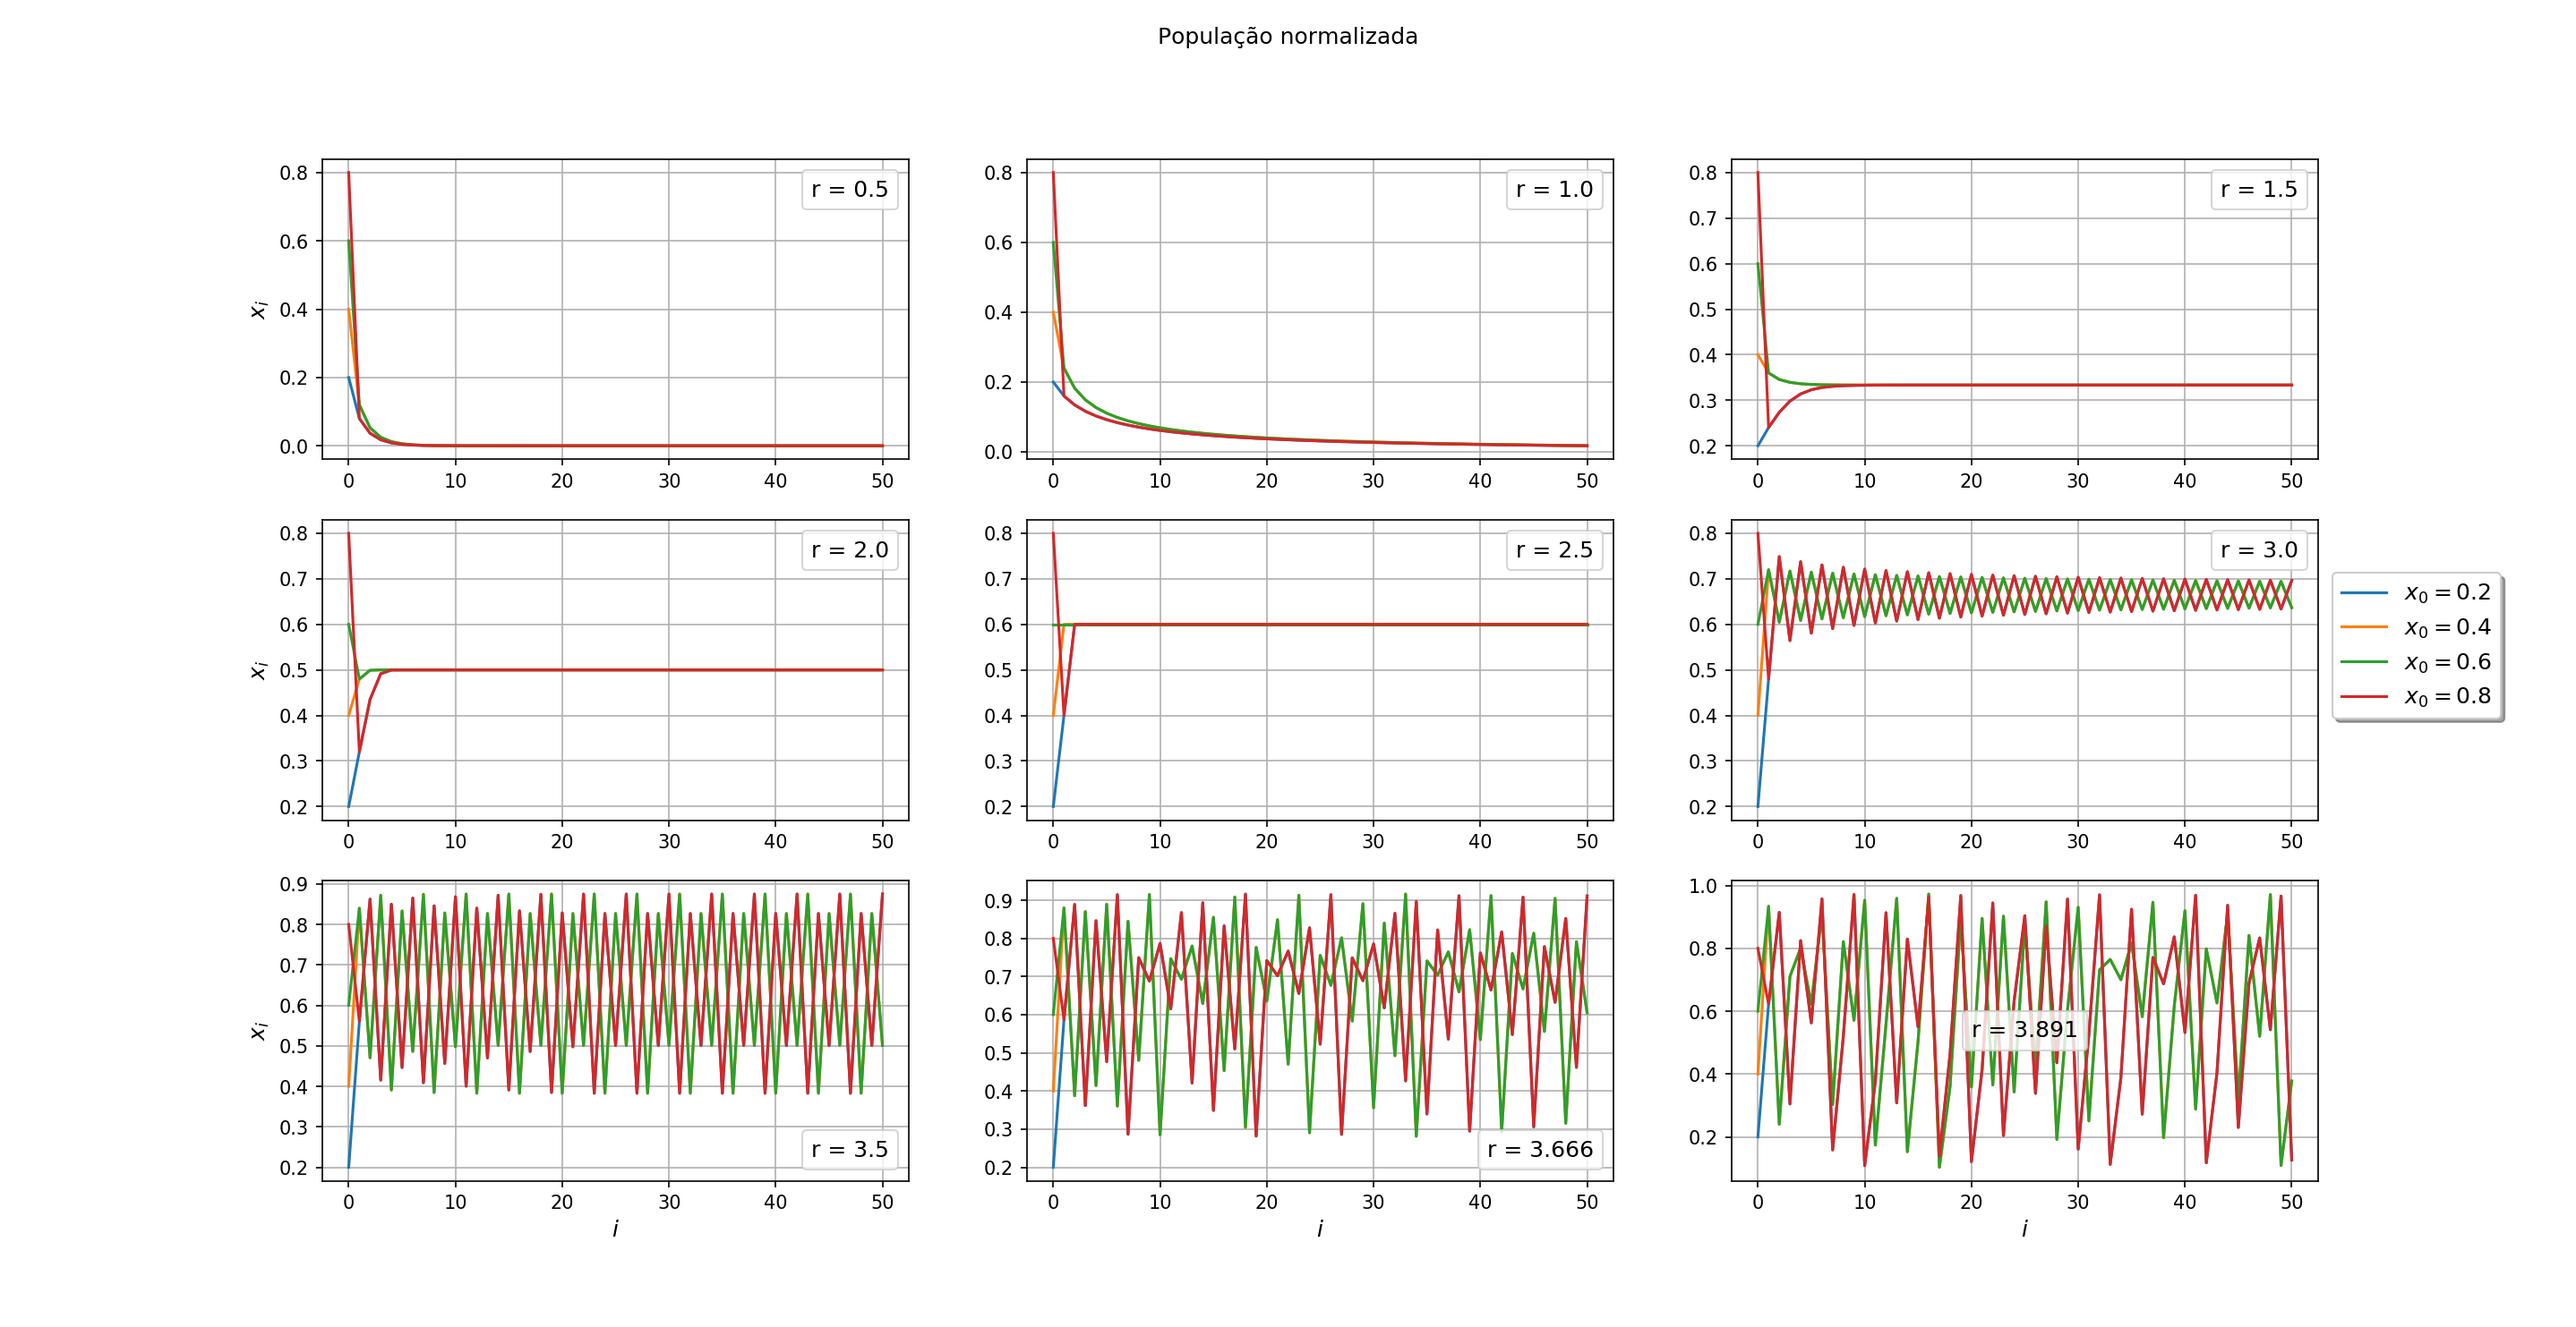
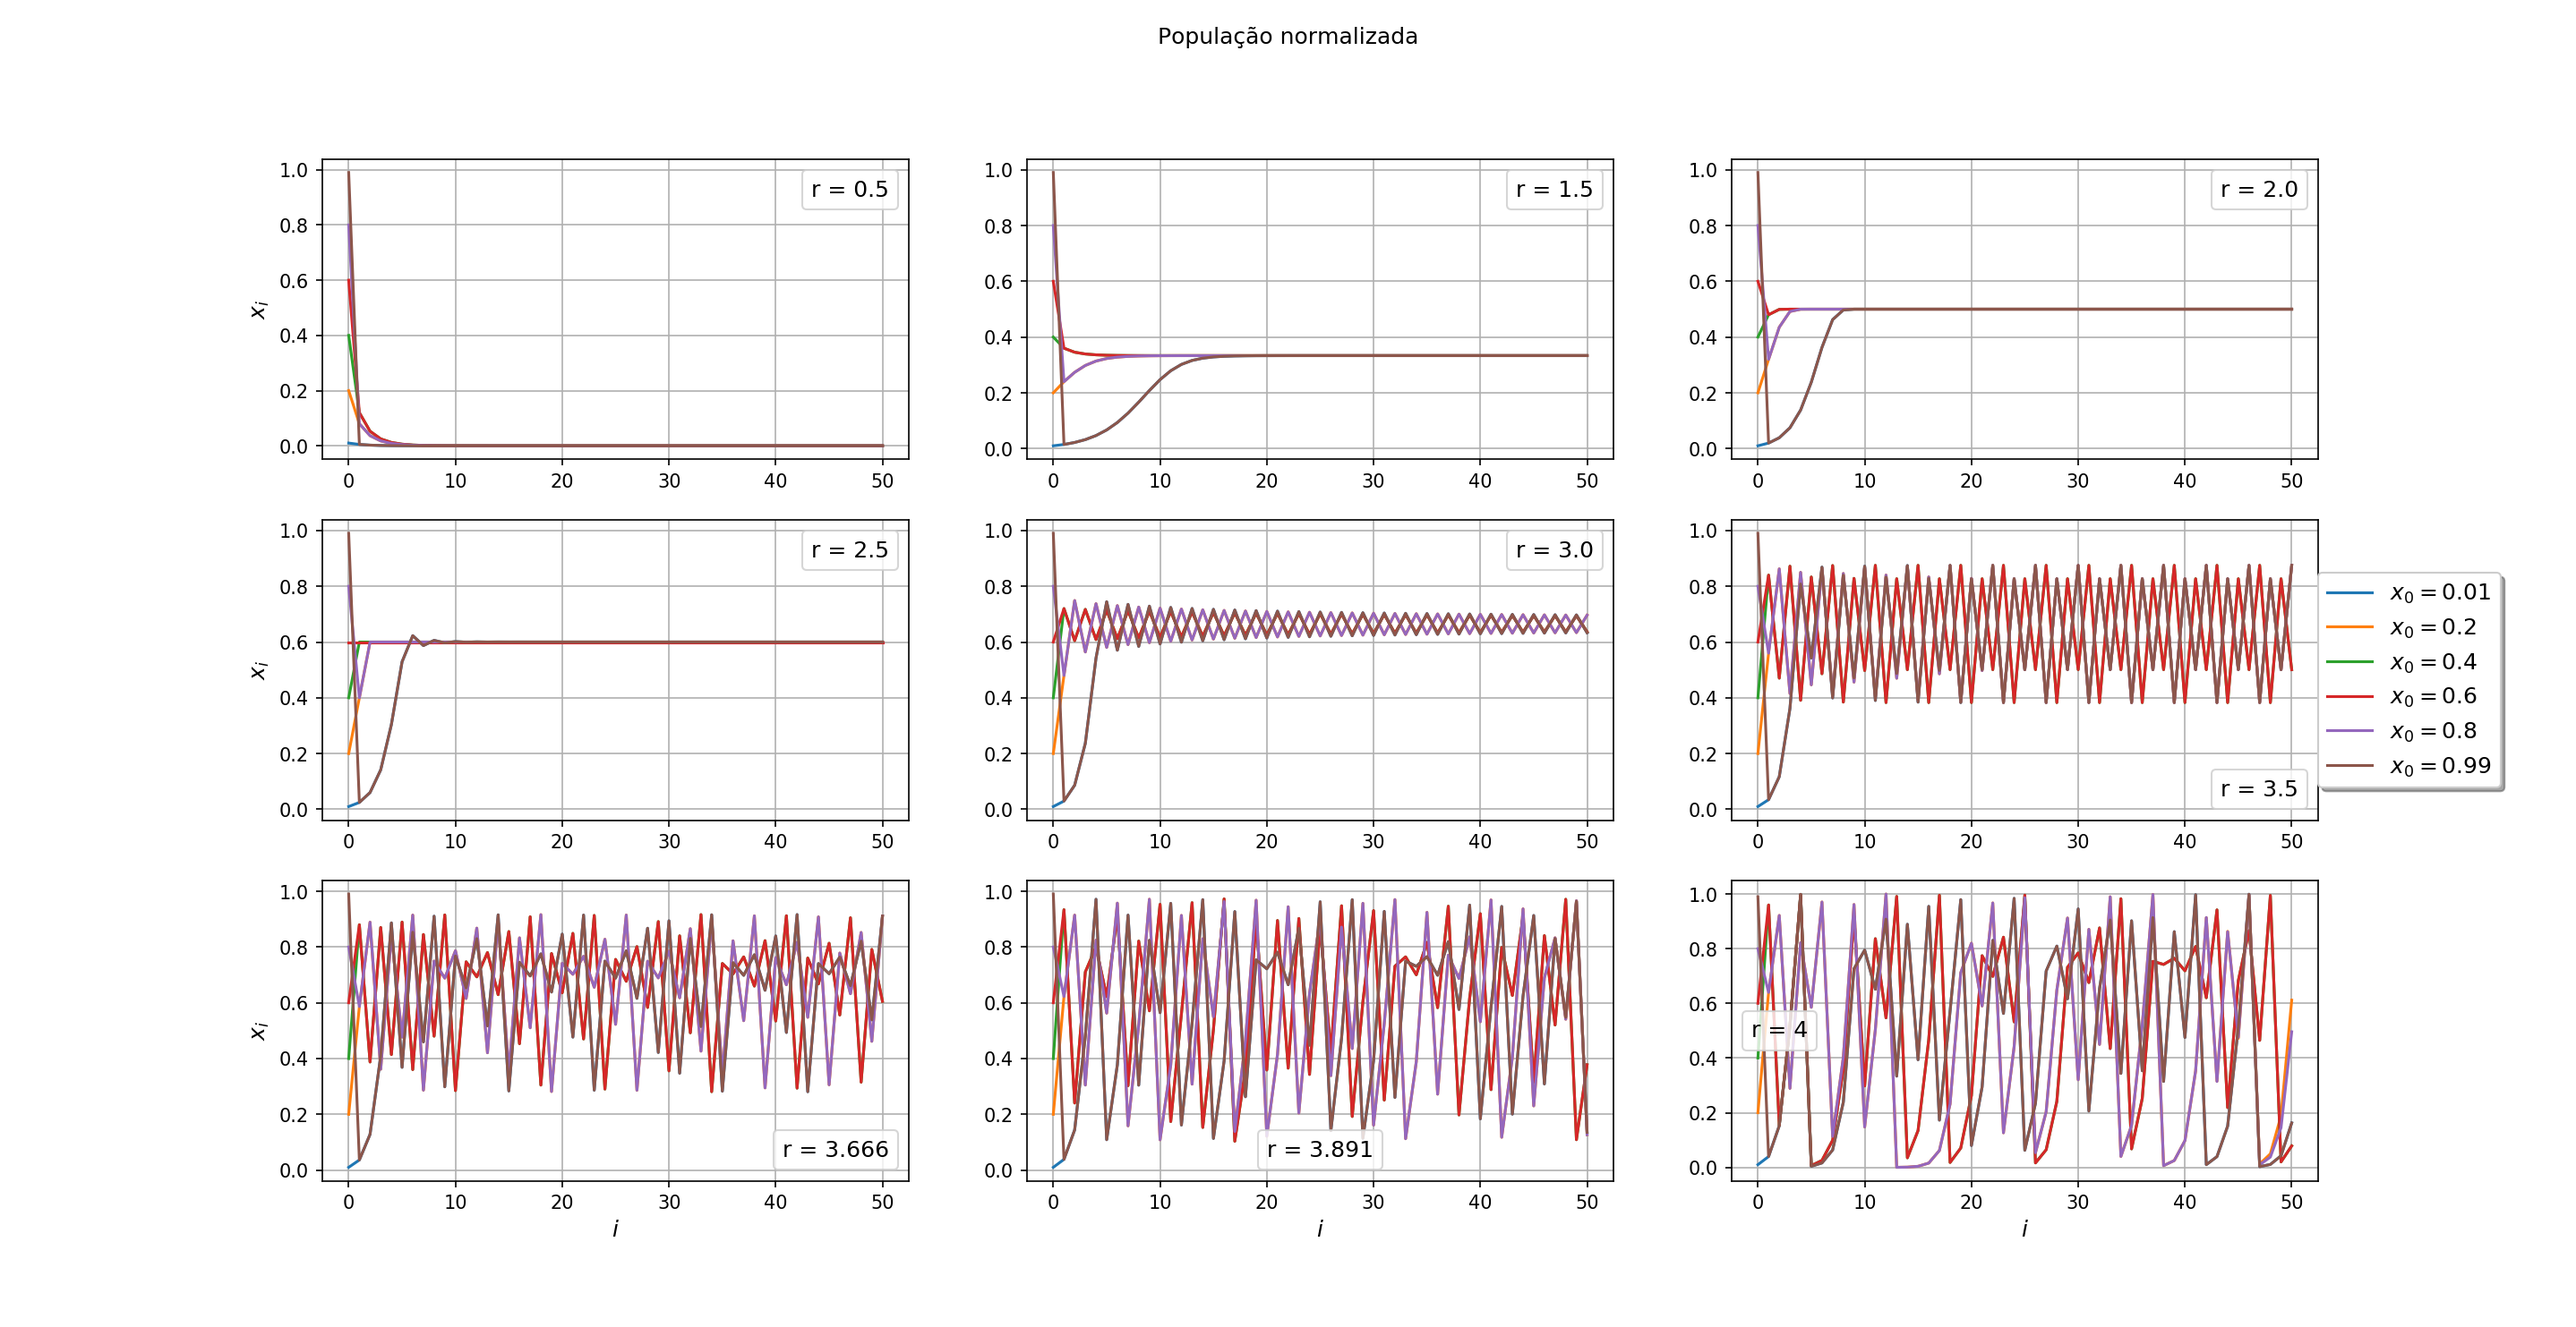
[P5 - Eric] item 2 adicionado

diff --git a/projeto5/2.py b/projeto5/2.py
@@ -1,0 +1,103 @@
+import numpy as np
+import matplotlib.pyplot as plt
+import matplotlib.lines  as lines
+import subprocess
+import glob, os
+
+r  = [0.5, 1.5, 2.0, 2.5, 3.0, 3.5, 3.666, 3.8910, 4]
+
+print("Plotting results for ex 2a")
+
+def G(x, r):
+    return r * x * (1 - x)
+
+fig = plt.figure()
+index = 1
+for r_ in r:
+    x  = np.linspace(0, 1, 10001)
+    g1 = G(x,  r_)
+    g2 = G(g1, r_)
+    g3 = G(g2, r_)
+    g4 = G(g3, r_)
+
+    ax = fig.add_subplot(3, 3, index)
+    ax.plot(x, x,  label = 'x', linewidth = 3)
+    ax.plot(x, g1, label = '$G^{(1)}(x)$')
+    ax.plot(x, g2, label = '$G^{(2)}(x)$')
+    ax.plot(x, g3, label = '$G^{(3)}(x)$')
+    ax.plot(x, g4, label = '$G^{(4)}(x)$')
+
+    linhazinha = lines.Line2D([0], [0])
+    ax.legend([linhazinha], ["r = {}".format(r_)],
+              handlelength = 0, handletextpad = 0,
+              fontsize = 'large', fancybox=True)
+    ax.grid()
+    index += 1
+
+handles, labels = ax.get_legend_handles_labels()
+fig.legend(handles, labels,
+           fontsize = 'large', fancybox = True,
+           shadow = True,
+           bbox_to_anchor=(.91, .45),
+           loc = 'upper right', borderaxespad=-7)
+plt.title("Raízes de $G^{(i)}(x)$")
+#plt.show()
+fig.set_size_inches(19.18, 9.89)
+plt.savefig("2a.png",
+            dpi = 150,
+            transparent = True)
+
+
+# compile code
+compiler = "gfortran"
+flags = ["-Wall", "-Wextra", "-Wconversion-extra", "-std=f2003", "-pedantic", "-fimplicit-none", "-fbacktrace", "-O3", "-march=native"]
+source = "2.f90"
+cmd = [compiler] + flags + [source]
+
+print("Compiling {} with {} {}".format(source, compiler, flags))
+bla = subprocess.run(cmd, check = True, stdout=subprocess.PIPE)
+
+if bla.returncode != 0:
+    print("Oh, shit")
+    exit(1)
+
+x0 = .666
+# run code
+print("Running code")
+with open("out_caos", mode = 'w') as outfile:
+    bla = subprocess.run(["./a.out"],
+                         input = str(x0),
+                         encoding ='ascii',
+                         check = True,
+                         stdout=outfile)
+
+print("Plotting results for ex 2b")
+
+fig = plt.figure()
+ax = fig.add_subplot(111)
+data = np.loadtxt("out_caos", unpack = True)
+x = data[1]
+y = data[0]
+ax.scatter(x, y, s = 0.5, c = y, cmap = 'inferno')
+
+plt.title("CAOS")
+plt.xlabel("$r$", fontsize = 'large')
+plt.ylabel("População", fontsize = 'large')
+fig.tight_layout()
+#plt.ylim(-.1, 1.1)
+#plt.show()
+fig.set_size_inches(19.18, 9.89)
+plt.savefig("2b.png",
+            dpi = 150,
+            transparent = True)
+plt.xlim(3.5, 4)
+plt.ylim(0.1, 1)
+plt.savefig("2b_zoom.png",
+            dpi = 150,
+            transparent = True)
+
+# getting rid of output files
+print("getting rid of output files")
+for shit in glob.glob("out_*"):
+    os.remove(shit)
+print(":D")

diff --git a/projeto5/1.py b/projeto5/1.py
@@ -5,8 +5,8 @@ import subprocess
 import glob, os
 
 # simulation parameters
-r  = [0.5, 1.0, 1.5, 2.0, 2.5, 3.0, 3.5, 3.666, 3.8910]
-x0 = [0.2, 0.4, 0.6, 0.8]
+r  = [0.5, 1.5, 2.0, 2.5, 3.0, 3.5, 3.666, 3.8910, 4]
+x0 = [0.01, 0.2, 0.4, 0.6, 0.8, 0.99]
 eps = 0.001
 
 # compile code

diff --git a/projeto5/Readme.md b/projeto5/Readme.md
@@ -9,3 +9,15 @@ O código `1.py` é um script Python que compila, executa e faz os gráficos:
 ![](1b.png)
 
 ![](1c.png)
+
+## Exercicio 2 - CAOS
+
+O código `2.f90` imprime no terminal `xi, r` como pedido no item b).
+
+O código `2.py` é um script Python que compila, executa e faz os gráficos:
+
+![](2a.png)
+
+![](2b.png)
+
+![](2b_zoom.png)
